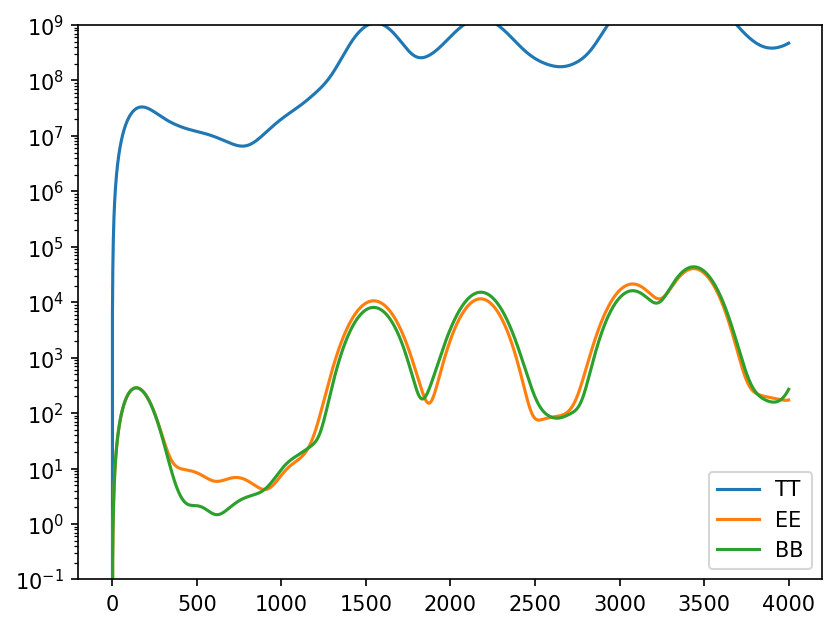
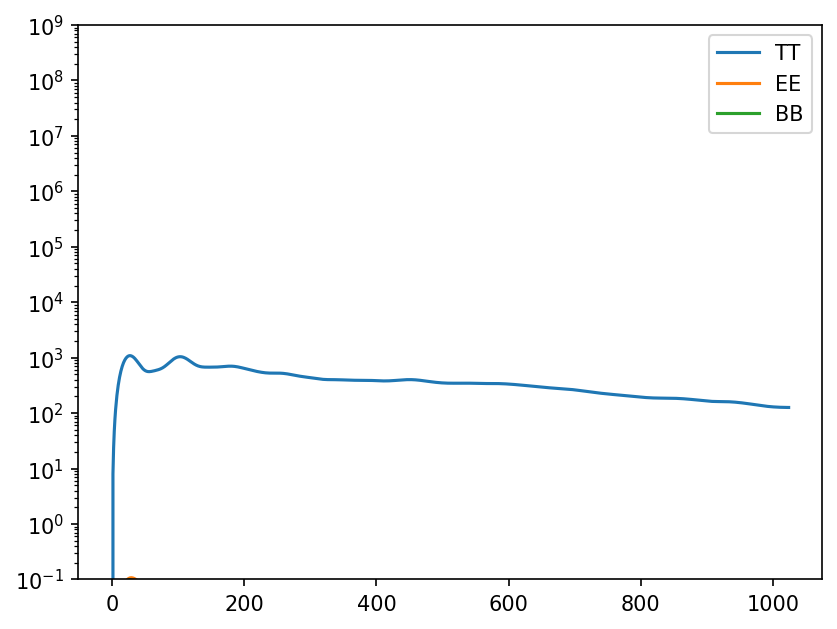
several changes to resolution calculations and plotting

diff --git a/sims_at_multiple_frequencies.py b/sims_at_multiple_frequencies.py
@@ -17,22 +17,24 @@ def show_power_spectra(sky, f_GHz, ra_center_degrees, dec_center_degrees, radius
 
     # making the shape so I can take a piece out of the sky without looking at the whole sky
     shape, wcs = enmap.geometry(
-        # I like triple checked to make sure dec and ra are correct and the +- signs are right but idk
-        pos=[[(ra_center_degrees - radius_degrees) * utils.degree, 
-        (dec_center_degrees + radius_degrees) * utils.degree], 
-        [(ra_center_degrees + radius_degrees) * utils.degree, 
-        (dec_center_degrees - radius_degrees) * utils.degree]], 
+        # I like triple checked to make sure dec and ra are correct and the +- signs are right -fixed
+        pos=[[(dec_center_degrees - radius_degrees) * utils.degree,
+        (ra_center_degrees  + radius_degrees) * utils.degree],
+        [(dec_center_degrees + radius_degrees) * utils.degree,
+        (ra_center_degrees  - radius_degrees) * utils.degree]],
 
-        # conversion factor of 1/3600 for sky.nside seeeeems to be correct?
-        res = (3600 / sky.nside) * utils.arcmin,
+        # fixed
+        res = hp.pixelfunc.nside2resol(sky.nside, arcmin=True) * utils.arcmin,
         proj="car"
     )
 
     # initialize imap_hp from sky
     imap_hp = sky.get_emission(f_GHz * u.GHz).value
+    print(imap_hp.shape)
 
     # reproject to get only a tiny segment
     imap = reproject.healpix2map(imap_hp, shape, wcs)
+    print(imap.shape)
 
     # add some random noise?  Gaussian noise taken from matched filtering notebook
     # definitely ask Zach about this
@@ -50,19 +52,28 @@ def show_power_spectra(sky, f_GHz, ra_center_degrees, dec_center_degrees, radius
     # if we don't apodize, then w2 ends up being 1 by default, and tapered_imap is just a copy of imap
     w2 = 1
     tapered_imap = imap.copy()
+    
     if not fullsky_bool:
         # deleted the three lines I was unsure of for this...
         apod_width = max(5, shape[1] // 8)
         # from spherical harmonics notebook
         taper_mask = enmap.apod(enmap.ones(imap[0].shape, imap[0].wcs), width=apod_width)
-        w2 = np.sum(taper_mask.pixsizemap() * taper_mask**2) / (4*np.pi)
+        # removed the division by 4 \pi in the formula...
+        w2 = np.mean(taper_mask**2)
         for i in range(3):
             tapered_imap[i] = taper_mask * imap[i]
 
-    # not so sure about lmax=4000?  I tried to make it arbitrarily large?
-    alms = curvedsky.map2alm(tapered_imap, lmax=4000)
+    print(tapered_imap.shape)
+
+    # lmax is no longer arbitrarily large, changed it to have a set formula
+    lmax = 2 * sky.nside
+    alms = curvedsky.map2alm(tapered_imap, lmax=lmax)
     cl = curvedsky.alm2cl(alms) / w2
     l = np.arange(cl.shape[1])
+
+    print(alms.shape)
+    print(cl.shape)
+    print(l.shape)
 
     for i in range(3):
         plt.semilogy(l, cl[i] * l *(l+1) / 2 / np.pi, label=['TT', 'EE', 'BB'][i])
@@ -73,5 +84,6 @@ def show_power_spectra(sky, f_GHz, ra_center_degrees, dec_center_degrees, radius
     plt.close()
 
 # testing it out with sky with d0 dust and CMB
-sky = pysm3.Sky(nside=256, preset_strings=["d0", "c1"])
-show_power_spectra(sky, 100, 0, 0, 1, False)
+sky = pysm3.Sky(nside=512, preset_strings=["d0", "c1"])
+# r = 1 was too small, I think, it led to a 9x9 map lol
+show_power_spectra(sky, 100, 0, 0, 5, False)